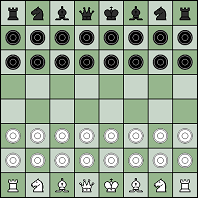
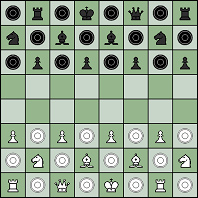
Belarusian Chess (variant)

diff --git a/public/dagaz/scripts/belarusian-chess-black.js b/public/dagaz/scripts/belarusian-chess-black.js
@@ -436,7 +436,7 @@ Dagaz.Model.BuildDesign = function(design) {
     design.addMove(7, 10, [1, 1, 1, 0, 0], 1);
     design.addMove(7, 11, [0, 0, 0, 0, 1, 1, 1], 1);
 
-    design.setupSelector(2);
+    design.setupSelector(3);
 
     design.setup("White", "Man", 56, 1);
     design.setup("White", "Man", 40, 1);
@@ -487,54 +487,103 @@ Dagaz.Model.BuildDesign = function(design) {
     design.setup("Black", "Queen", 3, 1);
     design.setup("Black", "King", 4, 1);
 
+    design.setup("White", "Man", 57, 2);
+    design.setup("White", "Man", 59, 2);
+    design.setup("White", "Man", 61, 2);
+    design.setup("White", "Man", 63, 2);
     design.setup("White", "Man", 48, 2);
-    design.setup("White", "Man", 49, 2);
     design.setup("White", "Man", 50, 2);
-    design.setup("White", "Man", 51, 2);
     design.setup("White", "Man", 52, 2);
-    design.setup("White", "Man", 53, 2);
     design.setup("White", "Man", 54, 2);
-    design.setup("White", "Man", 55, 2);
-    design.setup("White", "Man", 40, 2);
     design.setup("White", "Man", 41, 2);
-    design.setup("White", "Man", 42, 2);
     design.setup("White", "Man", 43, 2);
-    design.setup("White", "Man", 44, 2);
     design.setup("White", "Man", 45, 2);
-    design.setup("White", "Man", 46, 2);
     design.setup("White", "Man", 47, 2);
+    design.setup("White", "Pawn", 40, 2);
+    design.setup("White", "Pawn", 42, 2);
+    design.setup("White", "Pawn", 44, 2);
+    design.setup("White", "Pawn", 46, 2);
     design.setup("White", "Rook", 56, 2);
-    design.setup("White", "Rook", 63, 2);
-    design.setup("White", "Knight", 57, 2);
-    design.setup("White", "Knight", 62, 2);
-    design.setup("White", "Bishop", 58, 2);
-    design.setup("White", "Bishop", 61, 2);
-    design.setup("White", "Queen", 59, 2);
+    design.setup("White", "Rook", 62, 2);
+    design.setup("White", "Knight", 49, 2);
+    design.setup("White", "Knight", 55, 2);
+    design.setup("White", "Bishop", 51, 2);
+    design.setup("White", "Bishop", 53, 2);
+    design.setup("White", "Queen", 58, 2);
     design.setup("White", "King", 60, 2);
-    design.setup("Black", "Man", 8, 2);
+    design.setup("Black", "Man", 0, 2);
+    design.setup("Black", "Man", 2, 2);
+    design.setup("Black", "Man", 4, 2);
+    design.setup("Black", "Man", 6, 2);
     design.setup("Black", "Man", 9, 2);
-    design.setup("Black", "Man", 10, 2);
     design.setup("Black", "Man", 11, 2);
-    design.setup("Black", "Man", 12, 2);
     design.setup("Black", "Man", 13, 2);
-    design.setup("Black", "Man", 14, 2);
     design.setup("Black", "Man", 15, 2);
     design.setup("Black", "Man", 16, 2);
-    design.setup("Black", "Man", 17, 2);
     design.setup("Black", "Man", 18, 2);
-    design.setup("Black", "Man", 19, 2);
     design.setup("Black", "Man", 20, 2);
-    design.setup("Black", "Man", 21, 2);
     design.setup("Black", "Man", 22, 2);
-    design.setup("Black", "Man", 23, 2);
-    design.setup("Black", "Rook", 0, 2);
+    design.setup("Black", "Pawn", 17, 2);
+    design.setup("Black", "Pawn", 19, 2);
+    design.setup("Black", "Pawn", 21, 2);
+    design.setup("Black", "Pawn", 23, 2);
+    design.setup("Black", "Rook", 1, 2);
     design.setup("Black", "Rook", 7, 2);
-    design.setup("Black", "Knight", 1, 2);
-    design.setup("Black", "Knight", 6, 2);
-    design.setup("Black", "Bishop", 2, 2);
-    design.setup("Black", "Bishop", 5, 2);
-    design.setup("Black", "Queen", 3, 2);
-    design.setup("Black", "King", 4, 2);
+    design.setup("Black", "Knight", 8, 2);
+    design.setup("Black", "Knight", 14, 2);
+    design.setup("Black", "Bishop", 10, 2);
+    design.setup("Black", "Bishop", 12, 2);
+    design.setup("Black", "Queen", 5, 2);
+    design.setup("Black", "King", 3, 2);
+
+    design.setup("White", "Man", 48, 3);
+    design.setup("White", "Man", 49, 3);
+    design.setup("White", "Man", 50, 3);
+    design.setup("White", "Man", 51, 3);
+    design.setup("White", "Man", 52, 3);
+    design.setup("White", "Man", 53, 3);
+    design.setup("White", "Man", 54, 3);
+    design.setup("White", "Man", 55, 3);
+    design.setup("White", "Man", 40, 3);
+    design.setup("White", "Man", 41, 3);
+    design.setup("White", "Man", 42, 3);
+    design.setup("White", "Man", 43, 3);
+    design.setup("White", "Man", 44, 3);
+    design.setup("White", "Man", 45, 3);
+    design.setup("White", "Man", 46, 3);
+    design.setup("White", "Man", 47, 3);
+    design.setup("White", "Rook", 56, 3);
+    design.setup("White", "Rook", 63, 3);
+    design.setup("White", "Knight", 57, 3);
+    design.setup("White", "Knight", 62, 3);
+    design.setup("White", "Bishop", 58, 3);
+    design.setup("White", "Bishop", 61, 3);
+    design.setup("White", "Queen", 59, 3);
+    design.setup("White", "King", 60, 3);
+    design.setup("Black", "Man", 8, 3);
+    design.setup("Black", "Man", 9, 3);
+    design.setup("Black", "Man", 10, 3);
+    design.setup("Black", "Man", 11, 3);
+    design.setup("Black", "Man", 12, 3);
+    design.setup("Black", "Man", 13, 3);
+    design.setup("Black", "Man", 14, 3);
+    design.setup("Black", "Man", 15, 3);
+    design.setup("Black", "Man", 16, 3);
+    design.setup("Black", "Man", 17, 3);
+    design.setup("Black", "Man", 18, 3);
+    design.setup("Black", "Man", 19, 3);
+    design.setup("Black", "Man", 20, 3);
+    design.setup("Black", "Man", 21, 3);
+    design.setup("Black", "Man", 22, 3);
+    design.setup("Black", "Man", 23, 3);
+    design.setup("Black", "Rook", 0, 3);
+    design.setup("Black", "Rook", 7, 3);
+    design.setup("Black", "Knight", 1, 3);
+    design.setup("Black", "Knight", 6, 3);
+    design.setup("Black", "Bishop", 2, 3);
+    design.setup("Black", "Bishop", 5, 3);
+    design.setup("Black", "Queen", 3, 3);
+    design.setup("Black", "King", 4, 3);
 }
 
 Dagaz.View.configure = function(view) {

diff --git a/public/dagaz/scripts/belarusian-chess.js b/public/dagaz/scripts/belarusian-chess.js
@@ -436,7 +436,7 @@ Dagaz.Model.BuildDesign = function(design) {
     design.addMove(7, 10, [1, 1, 1, 0, 0], 1);
     design.addMove(7, 11, [0, 0, 0, 0, 1, 1, 1], 1);
 
-    design.setupSelector(2);
+    design.setupSelector(3);
 
     design.setup("White", "Man", 56, 1);
     design.setup("White", "Man", 40, 1);
@@ -487,54 +487,103 @@ Dagaz.Model.BuildDesign = function(design) {
     design.setup("Black", "Queen", 3, 1);
     design.setup("Black", "King", 4, 1);
 
+    design.setup("White", "Man", 57, 2);
+    design.setup("White", "Man", 59, 2);
+    design.setup("White", "Man", 61, 2);
+    design.setup("White", "Man", 63, 2);
     design.setup("White", "Man", 48, 2);
-    design.setup("White", "Man", 49, 2);
     design.setup("White", "Man", 50, 2);
-    design.setup("White", "Man", 51, 2);
     design.setup("White", "Man", 52, 2);
-    design.setup("White", "Man", 53, 2);
     design.setup("White", "Man", 54, 2);
-    design.setup("White", "Man", 55, 2);
-    design.setup("White", "Man", 40, 2);
     design.setup("White", "Man", 41, 2);
-    design.setup("White", "Man", 42, 2);
     design.setup("White", "Man", 43, 2);
-    design.setup("White", "Man", 44, 2);
     design.setup("White", "Man", 45, 2);
-    design.setup("White", "Man", 46, 2);
     design.setup("White", "Man", 47, 2);
+    design.setup("White", "Pawn", 40, 2);
+    design.setup("White", "Pawn", 42, 2);
+    design.setup("White", "Pawn", 44, 2);
+    design.setup("White", "Pawn", 46, 2);
     design.setup("White", "Rook", 56, 2);
-    design.setup("White", "Rook", 63, 2);
-    design.setup("White", "Knight", 57, 2);
-    design.setup("White", "Knight", 62, 2);
-    design.setup("White", "Bishop", 58, 2);
-    design.setup("White", "Bishop", 61, 2);
-    design.setup("White", "Queen", 59, 2);
+    design.setup("White", "Rook", 62, 2);
+    design.setup("White", "Knight", 49, 2);
+    design.setup("White", "Knight", 55, 2);
+    design.setup("White", "Bishop", 51, 2);
+    design.setup("White", "Bishop", 53, 2);
+    design.setup("White", "Queen", 58, 2);
     design.setup("White", "King", 60, 2);
-    design.setup("Black", "Man", 8, 2);
+    design.setup("Black", "Man", 0, 2);
+    design.setup("Black", "Man", 2, 2);
+    design.setup("Black", "Man", 4, 2);
+    design.setup("Black", "Man", 6, 2);
     design.setup("Black", "Man", 9, 2);
-    design.setup("Black", "Man", 10, 2);
     design.setup("Black", "Man", 11, 2);
-    design.setup("Black", "Man", 12, 2);
     design.setup("Black", "Man", 13, 2);
-    design.setup("Black", "Man", 14, 2);
     design.setup("Black", "Man", 15, 2);
     design.setup("Black", "Man", 16, 2);
-    design.setup("Black", "Man", 17, 2);
     design.setup("Black", "Man", 18, 2);
-    design.setup("Black", "Man", 19, 2);
     design.setup("Black", "Man", 20, 2);
-    design.setup("Black", "Man", 21, 2);
     design.setup("Black", "Man", 22, 2);
-    design.setup("Black", "Man", 23, 2);
-    design.setup("Black", "Rook", 0, 2);
+    design.setup("Black", "Pawn", 17, 2);
+    design.setup("Black", "Pawn", 19, 2);
+    design.setup("Black", "Pawn", 21, 2);
+    design.setup("Black", "Pawn", 23, 2);
+    design.setup("Black", "Rook", 1, 2);
     design.setup("Black", "Rook", 7, 2);
-    design.setup("Black", "Knight", 1, 2);
-    design.setup("Black", "Knight", 6, 2);
-    design.setup("Black", "Bishop", 2, 2);
-    design.setup("Black", "Bishop", 5, 2);
-    design.setup("Black", "Queen", 3, 2);
-    design.setup("Black", "King", 4, 2);
+    design.setup("Black", "Knight", 8, 2);
+    design.setup("Black", "Knight", 14, 2);
+    design.setup("Black", "Bishop", 10, 2);
+    design.setup("Black", "Bishop", 12, 2);
+    design.setup("Black", "Queen", 5, 2);
+    design.setup("Black", "King", 3, 2);
+
+    design.setup("White", "Man", 48, 3);
+    design.setup("White", "Man", 49, 3);
+    design.setup("White", "Man", 50, 3);
+    design.setup("White", "Man", 51, 3);
+    design.setup("White", "Man", 52, 3);
+    design.setup("White", "Man", 53, 3);
+    design.setup("White", "Man", 54, 3);
+    design.setup("White", "Man", 55, 3);
+    design.setup("White", "Man", 40, 3);
+    design.setup("White", "Man", 41, 3);
+    design.setup("White", "Man", 42, 3);
+    design.setup("White", "Man", 43, 3);
+    design.setup("White", "Man", 44, 3);
+    design.setup("White", "Man", 45, 3);
+    design.setup("White", "Man", 46, 3);
+    design.setup("White", "Man", 47, 3);
+    design.setup("White", "Rook", 56, 3);
+    design.setup("White", "Rook", 63, 3);
+    design.setup("White", "Knight", 57, 3);
+    design.setup("White", "Knight", 62, 3);
+    design.setup("White", "Bishop", 58, 3);
+    design.setup("White", "Bishop", 61, 3);
+    design.setup("White", "Queen", 59, 3);
+    design.setup("White", "King", 60, 3);
+    design.setup("Black", "Man", 8, 3);
+    design.setup("Black", "Man", 9, 3);
+    design.setup("Black", "Man", 10, 3);
+    design.setup("Black", "Man", 11, 3);
+    design.setup("Black", "Man", 12, 3);
+    design.setup("Black", "Man", 13, 3);
+    design.setup("Black", "Man", 14, 3);
+    design.setup("Black", "Man", 15, 3);
+    design.setup("Black", "Man", 16, 3);
+    design.setup("Black", "Man", 17, 3);
+    design.setup("Black", "Man", 18, 3);
+    design.setup("Black", "Man", 19, 3);
+    design.setup("Black", "Man", 20, 3);
+    design.setup("Black", "Man", 21, 3);
+    design.setup("Black", "Man", 22, 3);
+    design.setup("Black", "Man", 23, 3);
+    design.setup("Black", "Rook", 0, 3);
+    design.setup("Black", "Rook", 7, 3);
+    design.setup("Black", "Knight", 1, 3);
+    design.setup("Black", "Knight", 6, 3);
+    design.setup("Black", "Bishop", 2, 3);
+    design.setup("Black", "Bishop", 5, 3);
+    design.setup("Black", "Queen", 3, 3);
+    design.setup("Black", "King", 4, 3);
 }
 
 Dagaz.View.configure = function(view) {

diff --git a/src/migration/1596108130561-game.ts b/src/migration/1596108130561-game.ts
@@ -104,7 +104,7 @@ export class game1596108130561 implements MigrationInterface {
         await queryRunner.query(`insert into game_variants(id, game_id, name, filename, players_total) values(60, 36, 'Cheskers (8x8)', 'cheskers-8x8', 2)`);
         await queryRunner.query(`insert into game_variants(id, game_id, name, filename, players_total) values(61, 36, 'Cheskers (9x9)', 'cheskers-9x9', 2)`);
         await queryRunner.query(`insert into game_variants(id, game_id, name, filename, players_total, max_selector) values(62, 36, 'Cheskers (10x10)', 'cheskers-10x10', 2, 2)`);
-        await queryRunner.query(`insert into game_variants(id, game_id, name, filename, players_total, max_selector) values(63, 36, 'Belarusian Chess', 'belarusian-chess', 2, 2)`);
+        await queryRunner.query(`insert into game_variants(id, game_id, name, filename, players_total, max_selector) values(63, 36, 'Belarusian Chess', 'belarusian-chess', 2, 3)`);
         await queryRunner.query(`insert into game_variants(id, game_id, name, filename, players_total, is_hidden) values(64, 30, 'Dark Chess', 'dark-chess', 2, 1)`);
         await queryRunner.query(`insert into game_variants(id, game_id, name, filename, players_total) values(65, 30, 'Logical Progressive Chess', 'progressive-chess', 2)`);
         await queryRunner.query(`insert into game_variants(id, game_id, name, filename, players_total) values(66, 30, 'Hiashatar', 'hiashatar', 2)`);
@@ -1104,6 +1104,7 @@ export class game1596108130561 implements MigrationInterface {
         await queryRunner.query(`insert into game_previews(id, filename, selector_value, preview, rules, copyright) values(649, 'kantorai-kanji', 2, 'kantorai-2-kanji', 'http://www.zillions-of-games.com/cgi-bin/zilligames/submissions.cgi?do=show;id=541', '2001 Chris Huntoon')`);
         await queryRunner.query(`insert into game_previews(id, filename, selector_value, preview, rules) values(650, 'jacquet', null, 'jacquet', 'https://www.bkgm.com/variants/Jacquet.html')`);
         await queryRunner.query(`insert into game_previews(id, filename, selector_value, preview, rules) values(651, 'permainan-tabal', null, 'permainan-tabal', 'https://en.wikipedia.org/wiki/Permainan-Tabal')`);
+        await queryRunner.query(`insert into game_previews(id, filename, selector_value, preview) values(652, 'belarusian-chess', 3, 'belarusian-chess-3')`);
     }
 
     public async down(queryRunner: QueryRunner): Promise<any> {
